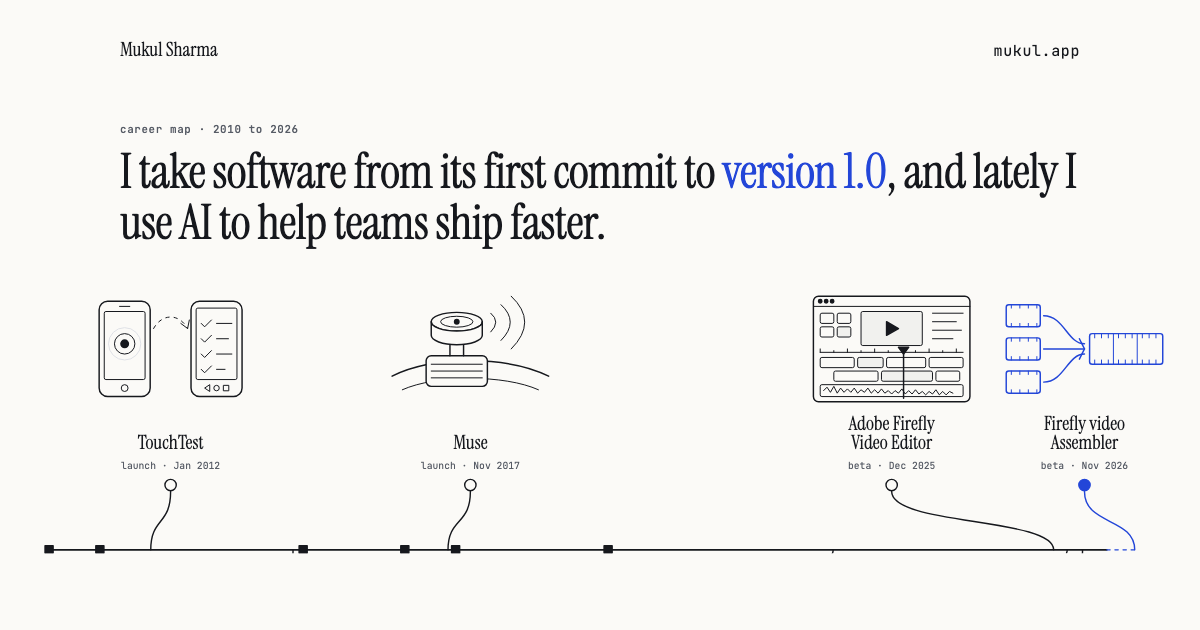
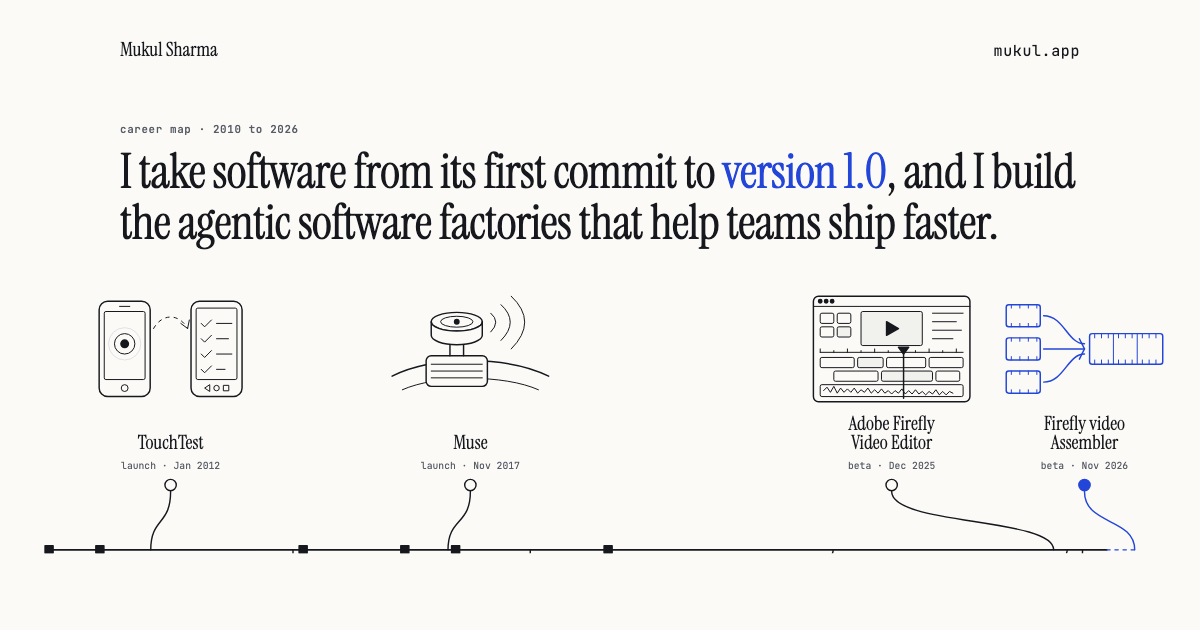
Add AppStation to the career map and describe the agentic software factory

Changed region(s): [[0.0925, 0.3016, 0.8325, 0.3921], [0.8017, 0.2413, 0.8942, 0.3016]]

diff --git a/site/index.html b/site/index.html
@@ -4,9 +4,9 @@
 <meta charset="utf-8">
 <meta name="viewport" content="width=device-width, initial-scale=1">
 <title>Mukul Sharma</title>
-<meta name="description" content="Mukul Sharma takes software from its first commit to version 1.0, and uses AI to help teams ship faster. Senior Staff Engineer at Adobe.">
+<meta name="description" content="Mukul Sharma takes software from its first commit to version 1.0 and builds the agentic software factories that help teams ship faster. Senior Staff Engineer at Adobe.">
 <meta property="og:title" content="Mukul Sharma">
-<meta property="og:description" content="I take software from its first commit to version 1.0, and lately I use AI to help teams ship faster.">
+<meta property="og:description" content="I take software from its first commit to version 1.0, and I build the agentic software factories that help teams ship faster.">
 <meta property="og:url" content="https://mukul.app/">
 <meta property="og:image" content="https://mukul.app/og.png">
 <meta property="og:image:width" content="1200">
@@ -53,7 +53,7 @@ a:hover{color:var(--mark)}
 .masthead nav a:hover{color:var(--mark)}
 
 .opening{padding-top:4.5rem;padding-bottom:1.5rem}
-.opening h1{font:400 clamp(2.5rem,5.6vw,4.6rem)/1.02 var(--display);letter-spacing:-.015em;margin:.8rem 0 1rem;max-width:19ch}
+.opening h1{font:400 clamp(2.5rem,5.6vw,4.6rem)/1.02 var(--display);letter-spacing:-.015em;margin:.8rem 0 1rem;max-width:27ch;text-wrap:balance}
 .opening h1 em{color:var(--mark);font-style:normal}
 
 /* inked svg language, after the README diagram kit */
@@ -227,7 +227,8 @@ svg.ink .note{font-size:15px}
 .maparea:has(#h-8x8>summary:hover) #g-8x8 .st,.maparea:has(#h-8x8[open]) #g-8x8 .st{fill:var(--mark)}.maparea:has(#h-8x8>summary:hover) #g-8x8 path,.maparea:has(#h-8x8[open]) #g-8x8 path{stroke:var(--mark)}
 .maparea:has(#h-speak>summary:hover) #g-speak .st,.maparea:has(#h-speak[open]) #g-speak .st{fill:var(--mark)}.maparea:has(#h-speak>summary:hover) #g-speak path,.maparea:has(#h-speak[open]) #g-speak path{stroke:var(--mark)}
 .maparea:has(#h-mobileiron>summary:hover) #g-mobileiron .st,.maparea:has(#h-mobileiron[open]) #g-mobileiron .st{fill:var(--mark)}.maparea:has(#h-mobileiron>summary:hover) #g-mobileiron path,.maparea:has(#h-mobileiron[open]) #g-mobileiron path{stroke:var(--mark)}
-.maparea:has(#h-adobe>summary:hover) #g-adobe .st,.maparea:has(#h-adobe[open]) #g-adobe .st{fill:var(--mark)}.maparea:has(#h-adobe>summary:hover) #g-adobe path,.maparea:has(#h-adobe[open]) #g-adobe path{stroke:var(--mark)}</style>
+.maparea:has(#h-adobe>summary:hover) #g-adobe .st,.maparea:has(#h-adobe[open]) #g-adobe .st{fill:var(--mark)}.maparea:has(#h-adobe>summary:hover) #g-adobe path,.maparea:has(#h-adobe[open]) #g-adobe path{stroke:var(--mark)}.maparea:has(#h-appstation>summary:hover) #g-appstation .dot,.maparea:has(#h-appstation[open]) #g-appstation .dot{fill:var(--mark);stroke:var(--mark)}.maparea:has(#h-appstation>summary:hover) #g-appstation .nm,.maparea:has(#h-appstation[open]) #g-appstation .nm{fill:var(--mark)}
+</style>
 </head>
 <body>
 <div class="wrap">
@@ -244,7 +245,7 @@ svg.ink .note{font-size:15px}
 <main>
   <section class="wrap opening" aria-labelledby="map-title">
     <p class="k">career map · 2010 to 2026</p>
-    <h1 id="map-title">I take software from its first commit to <em>version&nbsp;1.0</em>, and lately I use AI to help teams ship faster.</h1>
+    <h1 id="map-title">I take software from its first commit to <em>version&nbsp;1.0</em>, and I build the agentic software factories that help teams ship faster.</h1>
     <p class="cap">Senior Staff Engineer at Adobe, in San Jose, California. Each node on the line is something I shipped; select one for its story.</p>
   </section>
 
@@ -275,7 +276,16 @@ svg.ink .note{font-size:15px}
 <path class="f" d="M-23 -16 V-8 A15 5.5 0 0 0 7 -8 V-16 A15 5.5 0 0 1 -23 -16 Z"/>
 <ellipse class="thin" cx="-8" cy="-16" rx="9.5" ry="3.2"/><circle class="inkf" cx="-8" cy="-16" r="1.3"/>
 <path class="thin" d="M12 -21 q6 5 0 11"/><path class="thin" d="M18 -26 q11 10 0 21"/><path class="thin" d="M24 -31 q16 15 0 31"/>
-</g><text class="nm" x="560.0" y="256" text-anchor="middle">Muse</text><text class="dt" x="560" y="280" text-anchor="middle">launch · Nov 2017</text><circle class="dot" cx="560" cy="300" r="7"/></g><g id="g-express" class="prod"><path class="branch" d="M1007.8 380 C1007.8 420 820 410 820 452"/><circle class="dot" cx="820" cy="460" r="7"/><text class="nm" x="820.0" y="492" text-anchor="middle">Adobe Express</text><text class="nm" x="820.0" y="516" text-anchor="middle">video</text><text class="dt" x="820" y="538" text-anchor="middle">launch · 2023</text><g class="glyph" transform="translate(820.0 620) scale(2.1)">
+</g><text class="nm" x="560.0" y="256" text-anchor="middle">Muse</text><text class="dt" x="560" y="280" text-anchor="middle">launch · Nov 2017</text><circle class="dot" cx="560" cy="300" r="7"/></g><g id="g-appstation" class="prod"><path class="branch" d="M634.0 380 C634.0 420 600 410 600 452"/><circle class="dot" cx="600" cy="460" r="7"/><text class="nm" x="600.0" y="492" text-anchor="middle">AppStation</text><text class="dt" x="600" y="514" text-anchor="middle">v1 · Jun 2019</text><g class="glyph" transform="translate(600.0 620) scale(2.1)">
+<rect class="f" x="-40" y="-28" width="30" height="56" rx="5"/><rect class="thin" x="-37" y="-22" width="24" height="40" rx="1"/>
+<path class="thin" d="M-28 -25 H-22"/><circle class="thin" cx="-25" cy="23" r="1.8"/>
+<rect class="thin" x="-34" y="-18" width="6" height="6" rx="1.5"/><rect class="thin" x="-26" y="-18" width="6" height="6" rx="1.5"/>
+<rect class="thin" x="-34" y="-9" width="6" height="6" rx="1.5"/><rect class="w thin" x="-26" y="-9" width="6" height="6" rx="1.5"/>
+<rect class="thin" x="-34" y="0" width="6" height="6" rx="1.5"/><rect class="thin" x="-26" y="0" width="6" height="6" rx="1.5"/>
+<path class="thin" d="M-34 11 H-20"/>
+<path class="thin d" d="M-4 -8 C4 -16 12 -16 18 -10"/><path class="thin" d="M13 -13 l5 3 l-1 -6"/>
+<path class="f" d="M24 -24 L40 -18 V-2 C40 10 32 18 24 22 C16 18 8 10 8 -2 V-18 Z"/>
+<rect class="w" x="16" y="-6" width="16" height="12" rx="2"/><path class="thin" d="M20 -6 V-9 H28 V-6 M16 0 H32"/></g></g><g id="g-express" class="prod"><path class="branch" d="M1007.8 380 C1007.8 420 820 410 820 452"/><circle class="dot" cx="820" cy="460" r="7"/><text class="nm" x="820.0" y="492" text-anchor="middle">Adobe Express</text><text class="nm" x="820.0" y="516" text-anchor="middle">video</text><text class="dt" x="820" y="538" text-anchor="middle">launch · 2023</text><g class="glyph" transform="translate(820.0 620) scale(2.1)">
 <rect class="thin" x="-44" y="-31" width="5" height="5" rx="1"/><rect class="thin" x="-36.5" y="-31" width="5" height="5" rx="1"/>
 <rect class="thin" x="-29" y="-31" width="5" height="5" rx="1"/><rect class="thin" x="-21.5" y="-31" width="5" height="5" rx="1"/>
 <rect class="thin" x="-14" y="-31" width="5" height="5" rx="1"/><rect class="thin" x="-6.5" y="-31" width="5" height="5" rx="1"/>
@@ -328,7 +338,7 @@ svg.ink .note{font-size:15px}
 <path class="m" d="M-24 -19.5 C-12 -19.5 -10 -3 0 -3 M-24 0 H0 M-24 19.5 C-12 19.5 -10 3 0 3"/><path class="m" d="M-3 -6 l3 6 l-3 6"/>
 <rect class="f m" x="3" y="-9" width="43" height="18" rx="1.5"/><path class="m thin" d="M17 -9 V9 M31 -9 V9"/>
 <path class="m thin" d="M6 -9 v2.5 M10 -9 v2.5 M14 -9 v2.5 M20 -9 v2.5 M24 -9 v2.5 M28 -9 v2.5 M34 -9 v2.5 M38 -9 v2.5 M42 -9 v2.5"/>
-<path class="m thin" d="M6 9 v-2.5 M10 9 v-2.5 M14 9 v-2.5 M20 9 v-2.5 M24 9 v-2.5 M28 9 v-2.5 M34 9 v-2.5 M38 9 v-2.5 M42 9 v-2.5"/></g><text class="nm" x="1318.0" y="232" text-anchor="middle">Firefly video</text><text class="nm" x="1318.0" y="256" text-anchor="middle">Assembler</text><text class="dt mt" x="1318" y="280" text-anchor="middle">beta · Nov 2026</text><circle class="dot mf" cx="1318" cy="300" r="7"/></g><text class="note" x="1195" y="402" text-anchor="end">open source</text><path class="thin" d="M40 730 H1380.0"/><path class="thin" d="M40.0 730 V736"/><text class="t" x="40.0" y="752" text-anchor="middle">2010</text><path class="thin" d="M102.7 730 V736"/><text class="t" x="102.7" y="752" text-anchor="middle">2011</text><path class="thin" d="M165.5 730 V736"/><text class="t" x="165.5" y="752" text-anchor="middle">2012</text><path class="thin" d="M228.2 730 V736"/><text class="t" x="228.2" y="752" text-anchor="middle">2013</text><path class="thin" d="M290.9 730 V736"/><text class="t" x="290.9" y="752" text-anchor="middle">2014</text><path class="thin" d="M353.6 730 V736"/><text class="t" x="353.6" y="752" text-anchor="middle">2015</text><path class="thin" d="M416.4 730 V736"/><text class="t" x="416.4" y="752" text-anchor="middle">2016</text><path class="thin" d="M479.1 730 V736"/><text class="t" x="479.1" y="752" text-anchor="middle">2017</text><path class="thin" d="M541.8 730 V736"/><text class="t" x="541.8" y="752" text-anchor="middle">2018</text><path class="thin" d="M604.5 730 V736"/><text class="t" x="604.5" y="752" text-anchor="middle">2019</text><path class="thin" d="M667.3 730 V736"/><text class="t" x="667.3" y="752" text-anchor="middle">2020</text><path class="thin" d="M730.0 730 V736"/><text class="t" x="730.0" y="752" text-anchor="middle">2021</text><path class="thin" d="M841.1 730 V736"/><text class="t" x="841.1" y="752" text-anchor="middle">2022</text><path class="thin" d="M952.2 730 V736"/><text class="t" x="952.2" y="752" text-anchor="middle">2023</text><path class="thin" d="M1063.3 730 V736"/><text class="t" x="1063.3" y="752" text-anchor="middle">2024</text><path class="thin" d="M1174.4 730 V736"/><text class="t" x="1174.4" y="752" text-anchor="middle">2025</text><path class="thin" d="M1285.6 730 V736"/><text class="t" x="1285.6" y="752" text-anchor="middle">2026</text><rect x="723.0" y="727" width="14" height="6" style="fill:var(--paper);stroke:none"/><path class="thin" d="M721.0 736 L727.0 724 M733.0 736 L739.0 724"/><text class="note" x="730.0" y="716" text-anchor="middle">scale changes</text><g id="g-sumtotal" class="emp"><path class="thin" d="M43.0 768 V776 H99.7 V768"/><text class="st" x="71.4" y="796" text-anchor="middle">SumTotal</text><text class="st" x="71.4" y="811" text-anchor="middle">Systems</text></g><g id="g-soasta" class="emp"><path class="thin" d="M105.7 768 V776 H350.6 V768"/><text class="st" x="228.2" y="796" text-anchor="middle">SOASTA</text></g><g id="g-8x8" class="emp"><path class="thin" d="M356.6 768 V776 H476.1 V768"/><text class="st" x="416.4" y="796" text-anchor="middle">8x8</text></g><g id="g-speak" class="emp"><path class="thin" d="M482.1 768 V776 H538.8 V768"/><text class="st" x="510.5" y="796" text-anchor="middle">Speak</text><text class="st" x="510.5" y="811" text-anchor="middle">Music</text></g><g id="g-mobileiron" class="emp"><path class="thin" d="M544.8 768 V776 H727.0 V768"/><text class="st" x="635.9" y="796" text-anchor="middle">MobileIron</text></g><g id="g-adobe" class="emp"><path class="thin" d="M733.0 768 V776 H1377.0 V768"/><text class="st" x="1055.0" y="796" text-anchor="middle">Adobe</text></g></svg><details class="pin hp dn al-l" id="h-touchtest" name="map" style="left:6.528%;top:1.538%;width:13.333%;height:32.051%"><summary><span class="sr">TouchTest, launch Jan 2012</span></summary><div class="pop"><h3>TouchTest</h3><p class="pm">SOASTA · launch Jan 2012</p><p class="pc">On the launch team for TouchTest, test automation for iOS and Android apps.</p><a class="cite" href="https://www.informationweek.com/it-leadership/cloud-platform-stress-tests-mobile-apps">InformationWeek on the launch</a></div></details><details class="pin hp upw al-c" id="h-mpulse" name="map" style="left:16.250%;top:51.026%;width:13.333%;height:31.026%"><summary><span class="sr">mPulse Mobile, v1 2015</span></summary><div class="pop"><h3>mPulse Mobile</h3><p class="pm">SOASTA · v1 2015</p><p class="pc">As its architect, designed the mobile SDK, its API, and the analytics for network requests inside customers&#x27; apps.</p></div></details><details class="pin hp dn al-c" id="h-muse" name="map" style="left:32.222%;top:1.538%;width:13.333%;height:32.051%"><summary><span class="sr">Muse, launch Nov 2017</span></summary><div class="pop"><h3>Muse</h3><p class="pm">Speak Music · launch Nov 2017</p><p class="pc">Led design, development, and launch of an Alexa device for the car, and owned its iOS app. 1,000+ Indiegogo backers, $70,000+.</p><a class="cite" href="https://techcrunch.com/2017/11/14/muse-is-a-simple-dedicated-amazon-alexa-add-on-for-the-car/">TechCrunch on the launch</a></div></details><details class="pin hp upw al-c" id="h-express" name="map" style="left:50.278%;top:51.026%;width:13.333%;height:31.026%"><summary><span class="sr">Adobe Express video, launch 2023</span></summary><div class="pop"><h3>Adobe Express video</h3><p class="pm">Adobe · launch 2023</p><p class="pc">Led the teams behind eight Video Quick Actions and the first video timeline in Express for iPhone and iPad.</p></div></details><details class="pin hp dn al-c" id="h-fve" name="map" style="left:68.333%;top:1.538%;width:13.333%;height:32.051%"><summary><span class="sr">Adobe Firefly Video Editor, beta Dec 2025</span></summary><div class="pop"><h3>Adobe Firefly Video Editor</h3><p class="pm">Adobe · beta Dec 2025</p><p class="pc">Built the timeline editing core from the first commit. The public beta reached 100K monthly users.</p><a class="cite" href="https://nofilmschool.com/adobe-firefly-video-editor-beta">No Film School on the public beta</a></div></details><details class="pin hp upw al-c" id="h-forge" name="map" style="left:66.250%;top:51.026%;width:13.333%;height:31.026%"><summary><span class="sr">Forge, v1 Feb 2026</span></summary><div class="pop"><h3>Forge</h3><p class="pm">open source · v1 Feb 2026</p><p class="pc">Adversarial planning for coding agents, then a pipeline that checks evidence at every stage.</p><a class="cite" href="https://github.com/elitecoder/forge">elitecoder/forge on GitHub</a></div></details><details class="pin hp upw al-r" id="h-architect" name="map" style="left:82.917%;top:51.026%;width:13.333%;height:31.026%"><summary><span class="sr">Architect, v1 Apr 2026</span></summary><div class="pop"><h3>Architect</h3><p class="pm">Adobe, internal · v1 Apr 2026</p><p class="pc">Turns a problem statement into a reviewed pull request with passing checks. 16+ engineers, about 2,000 runs.</p></div></details><details class="pin hp dn al-r" id="h-assembler" name="map" style="left:84.861%;top:1.538%;width:13.333%;height:32.051%"><summary><span class="sr">Firefly video Assembler, beta Nov 2026</span></summary><div class="pop"><h3>Firefly video Assembler</h3><p class="pm">Adobe · beta Nov 2026</p><p class="pc">Leading delivery of Adobe&#x27;s new video assembly product. Public beta ships this month.</p></div></details><details class="pin hp upw al-l" id="h-sumtotal" name="map" style="left:2.917%;top:91.026%;width:4.078%;height:7.692%"><summary><span class="sr">SumTotal Systems, 2010–2011</span></summary><div class="pop"><h3>SumTotal Systems</h3><p class="pm">2010–2011</p><p class="pc">Software Engineer</p></div></details><details class="pin hp upw al-l" id="h-soasta" name="map" style="left:7.273%;top:91.026%;width:17.146%;height:7.692%"><summary><span class="sr">SOASTA, 2011–2015</span></summary><div class="pop"><h3>SOASTA</h3><p class="pm">2011–2015</p><p class="pc">Sr. Software Engineer, then Tech Lead</p></div></details><details class="pin hp upw al-c" id="h-8x8" name="map" style="left:24.697%;top:91.026%;width:8.434%;height:7.692%"><summary><span class="sr">8x8, 2015–2017</span></summary><div class="pop"><h3>8x8</h3><p class="pm">2015–2017</p><p class="pc">Senior Mobile Engineer</p></div></details><details class="pin hp upw al-c" id="h-speak" name="map" style="left:33.409%;top:91.026%;width:4.078%;height:7.692%"><summary><span class="sr">Speak Music, 2017–2018</span></summary><div class="pop"><h3>Speak Music</h3><p class="pm">2017–2018</p><p class="pc">iOS Platform Lead.</p></div></details><details class="pin hp upw al-c" id="h-mobileiron" name="map" style="left:37.765%;top:91.026%;width:12.790%;height:7.692%"><summary><span class="sr">MobileIron, 2018–2021</span></summary><div class="pop"><h3>MobileIron</h3><p class="pm">2018–2021</p><p class="pc">Staff Software Engineer, iOS. Acquired by Ivanti.</p></div></details><details class="pin hp upw al-c" id="h-adobe" name="map" style="left:50.833%;top:91.026%;width:44.861%;height:7.692%"><summary><span class="sr">Adobe, 2021–now</span></summary><div class="pop"><h3>Adobe</h3><p class="pm">2021–now</p><p class="pc">Sr. Computer Scientist 2 (Sr. Staff Engineer)</p></div></details></div><ol class="vlist" aria-label="Career map, oldest first"><li class="v-start" aria-hidden="true"></li><li class="v-st"><details class="pin" name="vmap"><summary><span class="vn">SumTotal Systems</span> <span class="vy">2010–2011</span></summary><div class="vpop"><p class="pc">Software Engineer</p></div></details></li><li class="v-st"><details class="pin" name="vmap"><summary><span class="vn">SOASTA</span> <span class="vy">2011–2015</span></summary><div class="vpop"><p class="pc">Sr. Software Engineer, then Tech Lead</p></div></details></li><li class="v-pr"><details class="pin" name="vmap"><summary><svg class="ink vbr" viewBox="0 0 44 40" aria-hidden="true"><path class="branch" d="M12 0 C12 22 38 12 38 33"/></svg><span class="vdot" aria-hidden="true"></span><span class="vt"><span class="vname">TouchTest</span><span class="vmeta">launch · Jan 2012</span></span><svg class="ink vg" viewBox="-47 -33 94 66" aria-hidden="true"><g class="glyph" transform="translate(0.0 0) scale(1)">
+<path class="m thin" d="M6 9 v-2.5 M10 9 v-2.5 M14 9 v-2.5 M20 9 v-2.5 M24 9 v-2.5 M28 9 v-2.5 M34 9 v-2.5 M38 9 v-2.5 M42 9 v-2.5"/></g><text class="nm" x="1318.0" y="232" text-anchor="middle">Firefly video</text><text class="nm" x="1318.0" y="256" text-anchor="middle">Assembler</text><text class="dt mt" x="1318" y="280" text-anchor="middle">beta · Nov 2026</text><circle class="dot mf" cx="1318" cy="300" r="7"/></g><text class="note" x="1195" y="402" text-anchor="end">open source</text><path class="thin" d="M40 730 H1380.0"/><path class="thin" d="M40.0 730 V736"/><text class="t" x="40.0" y="752" text-anchor="middle">2010</text><path class="thin" d="M102.7 730 V736"/><text class="t" x="102.7" y="752" text-anchor="middle">2011</text><path class="thin" d="M165.5 730 V736"/><text class="t" x="165.5" y="752" text-anchor="middle">2012</text><path class="thin" d="M228.2 730 V736"/><text class="t" x="228.2" y="752" text-anchor="middle">2013</text><path class="thin" d="M290.9 730 V736"/><text class="t" x="290.9" y="752" text-anchor="middle">2014</text><path class="thin" d="M353.6 730 V736"/><text class="t" x="353.6" y="752" text-anchor="middle">2015</text><path class="thin" d="M416.4 730 V736"/><text class="t" x="416.4" y="752" text-anchor="middle">2016</text><path class="thin" d="M479.1 730 V736"/><text class="t" x="479.1" y="752" text-anchor="middle">2017</text><path class="thin" d="M541.8 730 V736"/><text class="t" x="541.8" y="752" text-anchor="middle">2018</text><path class="thin" d="M604.5 730 V736"/><text class="t" x="604.5" y="752" text-anchor="middle">2019</text><path class="thin" d="M667.3 730 V736"/><text class="t" x="667.3" y="752" text-anchor="middle">2020</text><path class="thin" d="M730.0 730 V736"/><text class="t" x="730.0" y="752" text-anchor="middle">2021</text><path class="thin" d="M841.1 730 V736"/><text class="t" x="841.1" y="752" text-anchor="middle">2022</text><path class="thin" d="M952.2 730 V736"/><text class="t" x="952.2" y="752" text-anchor="middle">2023</text><path class="thin" d="M1063.3 730 V736"/><text class="t" x="1063.3" y="752" text-anchor="middle">2024</text><path class="thin" d="M1174.4 730 V736"/><text class="t" x="1174.4" y="752" text-anchor="middle">2025</text><path class="thin" d="M1285.6 730 V736"/><text class="t" x="1285.6" y="752" text-anchor="middle">2026</text><rect x="723.0" y="727" width="14" height="6" style="fill:var(--paper);stroke:none"/><path class="thin" d="M721.0 736 L727.0 724 M733.0 736 L739.0 724"/><text class="note" x="730.0" y="716" text-anchor="middle">scale changes</text><g id="g-sumtotal" class="emp"><path class="thin" d="M43.0 768 V776 H99.7 V768"/><text class="st" x="71.4" y="796" text-anchor="middle">SumTotal</text><text class="st" x="71.4" y="811" text-anchor="middle">Systems</text></g><g id="g-soasta" class="emp"><path class="thin" d="M105.7 768 V776 H350.6 V768"/><text class="st" x="228.2" y="796" text-anchor="middle">SOASTA</text></g><g id="g-8x8" class="emp"><path class="thin" d="M356.6 768 V776 H476.1 V768"/><text class="st" x="416.4" y="796" text-anchor="middle">8x8</text></g><g id="g-speak" class="emp"><path class="thin" d="M482.1 768 V776 H538.8 V768"/><text class="st" x="510.5" y="796" text-anchor="middle">Speak</text><text class="st" x="510.5" y="811" text-anchor="middle">Music</text></g><g id="g-mobileiron" class="emp"><path class="thin" d="M544.8 768 V776 H727.0 V768"/><text class="st" x="635.9" y="796" text-anchor="middle">MobileIron</text></g><g id="g-adobe" class="emp"><path class="thin" d="M733.0 768 V776 H1377.0 V768"/><text class="st" x="1055.0" y="796" text-anchor="middle">Adobe</text></g></svg><details class="pin hp dn al-l" id="h-touchtest" name="map" style="left:6.528%;top:1.538%;width:13.333%;height:32.051%"><summary><span class="sr">TouchTest, launch Jan 2012</span></summary><div class="pop"><h3>TouchTest</h3><p class="pm">SOASTA · launch Jan 2012</p><p class="pc">On the launch team for TouchTest, test automation for iOS and Android apps.</p><a class="cite" href="https://www.informationweek.com/it-leadership/cloud-platform-stress-tests-mobile-apps">InformationWeek on the launch</a></div></details><details class="pin hp upw al-c" id="h-mpulse" name="map" style="left:16.250%;top:51.026%;width:13.333%;height:31.026%"><summary><span class="sr">mPulse Mobile, v1 2015</span></summary><div class="pop"><h3>mPulse Mobile</h3><p class="pm">SOASTA · v1 2015</p><p class="pc">As its architect, designed the mobile SDK, its API, and the analytics for network requests inside customers&#x27; apps.</p></div></details><details class="pin hp dn al-c" id="h-muse" name="map" style="left:32.222%;top:1.538%;width:13.333%;height:32.051%"><summary><span class="sr">Muse, launch Nov 2017</span></summary><div class="pop"><h3>Muse</h3><p class="pm">Speak Music · launch Nov 2017</p><p class="pc">Led design, development, and launch of an Alexa device for the car, and owned its iOS app. 1,000+ Indiegogo backers, $70,000+.</p><a class="cite" href="https://techcrunch.com/2017/11/14/muse-is-a-simple-dedicated-amazon-alexa-add-on-for-the-car/">TechCrunch on the launch</a></div></details><details class="pin hp upw al-c" id="h-appstation" name="map" style="left:35.000%;top:51.026%;width:13.333%;height:31.026%"><summary><span class="sr">AppStation, v1 Jun 2019</span></summary><div class="pop"><h3>AppStation</h3><p class="pm">MobileIron · v1 Jun 2019</p><p class="pc">Built and shipped MobileIron&#x27;s iOS app for managing work apps without managing the whole device.</p><a class="cite" href="https://help.ivanti.com/mi/help/en_us/APSTN/1.0.0/rni/Content/AppStationReleaseNotes/AppStationReleaseNotes.htm">AppStation 1.0.0 release notes</a></div></details><details class="pin hp upw al-c" id="h-express" name="map" style="left:50.278%;top:51.026%;width:13.333%;height:31.026%"><summary><span class="sr">Adobe Express video, launch 2023</span></summary><div class="pop"><h3>Adobe Express video</h3><p class="pm">Adobe · launch 2023</p><p class="pc">Led the teams behind eight Video Quick Actions and the first video timeline in Express for iPhone and iPad.</p></div></details><details class="pin hp dn al-c" id="h-fve" name="map" style="left:68.333%;top:1.538%;width:13.333%;height:32.051%"><summary><span class="sr">Adobe Firefly Video Editor, beta Dec 2025</span></summary><div class="pop"><h3>Adobe Firefly Video Editor</h3><p class="pm">Adobe · beta Dec 2025</p><p class="pc">Built the timeline editing core from the first commit. The public beta reached 100K monthly users.</p><a class="cite" href="https://nofilmschool.com/adobe-firefly-video-editor-beta">No Film School on the public beta</a></div></details><details class="pin hp upw al-c" id="h-forge" name="map" style="left:66.250%;top:51.026%;width:13.333%;height:31.026%"><summary><span class="sr">Forge, v1 Feb 2026</span></summary><div class="pop"><h3>Forge</h3><p class="pm">open source · v1 Feb 2026</p><p class="pc">Adversarial planning for coding agents, then a pipeline that checks evidence at every stage.</p><a class="cite" href="https://github.com/elitecoder/forge">elitecoder/forge on GitHub</a></div></details><details class="pin hp upw al-r" id="h-architect" name="map" style="left:82.917%;top:51.026%;width:13.333%;height:31.026%"><summary><span class="sr">Architect, v1 Apr 2026</span></summary><div class="pop"><h3>Architect</h3><p class="pm">Adobe, internal · v1 Apr 2026</p><p class="pc">Turns a problem statement into a reviewed pull request with passing checks. 16+ engineers, about 2,000 runs.</p></div></details><details class="pin hp dn al-r" id="h-assembler" name="map" style="left:84.861%;top:1.538%;width:13.333%;height:32.051%"><summary><span class="sr">Firefly video Assembler, beta Nov 2026</span></summary><div class="pop"><h3>Firefly video Assembler</h3><p class="pm">Adobe · beta Nov 2026</p><p class="pc">Leading delivery of Adobe&#x27;s new video assembly product. Public beta ships this month.</p></div></details><details class="pin hp upw al-l" id="h-sumtotal" name="map" style="left:2.917%;top:91.026%;width:4.078%;height:7.692%"><summary><span class="sr">SumTotal Systems, 2010–2011</span></summary><div class="pop"><h3>SumTotal Systems</h3><p class="pm">2010–2011</p><p class="pc">Software Engineer</p></div></details><details class="pin hp upw al-l" id="h-soasta" name="map" style="left:7.273%;top:91.026%;width:17.146%;height:7.692%"><summary><span class="sr">SOASTA, 2011–2015</span></summary><div class="pop"><h3>SOASTA</h3><p class="pm">2011–2015</p><p class="pc">Sr. Software Engineer, then Tech Lead</p></div></details><details class="pin hp upw al-c" id="h-8x8" name="map" style="left:24.697%;top:91.026%;width:8.434%;height:7.692%"><summary><span class="sr">8x8, 2015–2017</span></summary><div class="pop"><h3>8x8</h3><p class="pm">2015–2017</p><p class="pc">Senior Mobile Engineer</p></div></details><details class="pin hp upw al-c" id="h-speak" name="map" style="left:33.409%;top:91.026%;width:4.078%;height:7.692%"><summary><span class="sr">Speak Music, 2017–2018</span></summary><div class="pop"><h3>Speak Music</h3><p class="pm">2017–2018</p><p class="pc">iOS Platform Lead.</p></div></details><details class="pin hp upw al-c" id="h-mobileiron" name="map" style="left:37.765%;top:91.026%;width:12.790%;height:7.692%"><summary><span class="sr">MobileIron, 2018–2021</span></summary><div class="pop"><h3>MobileIron</h3><p class="pm">2018–2021</p><p class="pc">Staff Software Engineer, iOS. Acquired by Ivanti.</p></div></details><details class="pin hp upw al-c" id="h-adobe" name="map" style="left:50.833%;top:91.026%;width:44.861%;height:7.692%"><summary><span class="sr">Adobe, 2021–now</span></summary><div class="pop"><h3>Adobe</h3><p class="pm">2021–now</p><p class="pc">Sr. Computer Scientist 2 (Sr. Staff Engineer)</p></div></details></div><ol class="vlist" aria-label="Career map, oldest first"><li class="v-start" aria-hidden="true"></li><li class="v-st"><details class="pin" name="vmap"><summary><span class="vn">SumTotal Systems</span> <span class="vy">2010–2011</span></summary><div class="vpop"><p class="pc">Software Engineer</p></div></details></li><li class="v-st"><details class="pin" name="vmap"><summary><span class="vn">SOASTA</span> <span class="vy">2011–2015</span></summary><div class="vpop"><p class="pc">Sr. Software Engineer, then Tech Lead</p></div></details></li><li class="v-pr"><details class="pin" name="vmap"><summary><svg class="ink vbr" viewBox="0 0 44 40" aria-hidden="true"><path class="branch" d="M12 0 C12 22 38 12 38 33"/></svg><span class="vdot" aria-hidden="true"></span><span class="vt"><span class="vname">TouchTest</span><span class="vmeta">launch · Jan 2012</span></span><svg class="ink vg" viewBox="-47 -33 94 66" aria-hidden="true"><g class="glyph" transform="translate(0.0 0) scale(1)">
 <rect class="f" x="-42" y="-28" width="30" height="56" rx="5"/><rect class="thin" x="-39" y="-22" width="24" height="40" rx="1"/>
 <path class="thin" d="M-30 -25 H-24"/><circle class="thin" cx="-27" cy="23" r="2"/>
 <circle class="inkf" cx="-27" cy="-3" r="2.2"/><circle class="thin" cx="-27" cy="-3" r="6"/><circle class="thin faint" cx="-27" cy="-3" r="9.5"/>
@@ -355,7 +365,16 @@ svg.ink .note{font-size:15px}
 <path class="f" d="M-23 -16 V-8 A15 5.5 0 0 0 7 -8 V-16 A15 5.5 0 0 1 -23 -16 Z"/>
 <ellipse class="thin" cx="-8" cy="-16" rx="9.5" ry="3.2"/><circle class="inkf" cx="-8" cy="-16" r="1.3"/>
 <path class="thin" d="M12 -21 q6 5 0 11"/><path class="thin" d="M18 -26 q11 10 0 21"/><path class="thin" d="M24 -31 q16 15 0 31"/>
-</g></svg></summary><div class="vpop"><p class="pm">Speak Music · launch Nov 2017</p><p class="pc">Led design, development, and launch of an Alexa device for the car, and owned its iOS app. 1,000+ Indiegogo backers, $70,000+.</p><a class="cite" href="https://techcrunch.com/2017/11/14/muse-is-a-simple-dedicated-amazon-alexa-add-on-for-the-car/">TechCrunch on the launch</a></div></details></li><li class="v-st"><details class="pin" name="vmap"><summary><span class="vn">MobileIron</span> <span class="vy">2018–2021</span></summary><div class="vpop"><p class="pc">Staff Software Engineer, iOS. Acquired by Ivanti.</p></div></details></li><li class="v-st"><details class="pin" name="vmap"><summary><span class="vn">Adobe</span> <span class="vy">2021–now</span></summary><div class="vpop"><p class="pc">Sr. Computer Scientist 2 (Sr. Staff Engineer)</p></div></details></li><li class="v-pr"><details class="pin" name="vmap"><summary><svg class="ink vbr" viewBox="0 0 44 40" aria-hidden="true"><path class="branch" d="M12 0 C12 22 38 12 38 33"/></svg><span class="vdot" aria-hidden="true"></span><span class="vt"><span class="vname">Adobe Express video</span><span class="vmeta">launch · 2023</span></span><svg class="ink vg" viewBox="-47 -33 94 66" aria-hidden="true"><g class="glyph" transform="translate(0.0 0) scale(1)">
+</g></svg></summary><div class="vpop"><p class="pm">Speak Music · launch Nov 2017</p><p class="pc">Led design, development, and launch of an Alexa device for the car, and owned its iOS app. 1,000+ Indiegogo backers, $70,000+.</p><a class="cite" href="https://techcrunch.com/2017/11/14/muse-is-a-simple-dedicated-amazon-alexa-add-on-for-the-car/">TechCrunch on the launch</a></div></details></li><li class="v-st"><details class="pin" name="vmap"><summary><span class="vn">MobileIron</span> <span class="vy">2018–2021</span></summary><div class="vpop"><p class="pc">Staff Software Engineer, iOS. Acquired by Ivanti.</p></div></details></li><li class="v-pr"><details class="pin" name="vmap"><summary><svg class="ink vbr" viewBox="0 0 44 40" aria-hidden="true"><path class="branch" d="M12 0 C12 22 38 12 38 33"/></svg><span class="vdot" aria-hidden="true"></span><span class="vt"><span class="vname">AppStation</span><span class="vmeta">v1 · Jun 2019</span></span><svg class="ink vg" viewBox="-47 -33 94 66" aria-hidden="true"><g class="glyph" transform="translate(0.0 0) scale(1)">
+<rect class="f" x="-40" y="-28" width="30" height="56" rx="5"/><rect class="thin" x="-37" y="-22" width="24" height="40" rx="1"/>
+<path class="thin" d="M-28 -25 H-22"/><circle class="thin" cx="-25" cy="23" r="1.8"/>
+<rect class="thin" x="-34" y="-18" width="6" height="6" rx="1.5"/><rect class="thin" x="-26" y="-18" width="6" height="6" rx="1.5"/>
+<rect class="thin" x="-34" y="-9" width="6" height="6" rx="1.5"/><rect class="w thin" x="-26" y="-9" width="6" height="6" rx="1.5"/>
+<rect class="thin" x="-34" y="0" width="6" height="6" rx="1.5"/><rect class="thin" x="-26" y="0" width="6" height="6" rx="1.5"/>
+<path class="thin" d="M-34 11 H-20"/>
+<path class="thin d" d="M-4 -8 C4 -16 12 -16 18 -10"/><path class="thin" d="M13 -13 l5 3 l-1 -6"/>
+<path class="f" d="M24 -24 L40 -18 V-2 C40 10 32 18 24 22 C16 18 8 10 8 -2 V-18 Z"/>
+<rect class="w" x="16" y="-6" width="16" height="12" rx="2"/><path class="thin" d="M20 -6 V-9 H28 V-6 M16 0 H32"/></g></svg></summary><div class="vpop"><p class="pm">MobileIron · v1 Jun 2019</p><p class="pc">Built and shipped MobileIron&#x27;s iOS app for managing work apps without managing the whole device.</p><a class="cite" href="https://help.ivanti.com/mi/help/en_us/APSTN/1.0.0/rni/Content/AppStationReleaseNotes/AppStationReleaseNotes.htm">AppStation 1.0.0 release notes</a></div></details></li><li class="v-st"><details class="pin" name="vmap"><summary><span class="vn">Adobe</span> <span class="vy">2021–now</span></summary><div class="vpop"><p class="pc">Sr. Computer Scientist 2 (Sr. Staff Engineer)</p></div></details></li><li class="v-pr"><details class="pin" name="vmap"><summary><svg class="ink vbr" viewBox="0 0 44 40" aria-hidden="true"><path class="branch" d="M12 0 C12 22 38 12 38 33"/></svg><span class="vdot" aria-hidden="true"></span><span class="vt"><span class="vname">Adobe Express video</span><span class="vmeta">launch · 2023</span></span><svg class="ink vg" viewBox="-47 -33 94 66" aria-hidden="true"><g class="glyph" transform="translate(0.0 0) scale(1)">
 <rect class="thin" x="-44" y="-31" width="5" height="5" rx="1"/><rect class="thin" x="-36.5" y="-31" width="5" height="5" rx="1"/>
 <rect class="thin" x="-29" y="-31" width="5" height="5" rx="1"/><rect class="thin" x="-21.5" y="-31" width="5" height="5" rx="1"/>
 <rect class="thin" x="-14" y="-31" width="5" height="5" rx="1"/><rect class="thin" x="-6.5" y="-31" width="5" height="5" rx="1"/>
@@ -415,15 +434,15 @@ svg.ink .note{font-size:15px}
     <hr class="rule" style="margin-top:0">
     <div class="ai">
       <div>
-        <p class="k" style="margin-top:2.5rem">on building with ai</p>
+        <p class="k" style="margin-top:2.5rem">the agentic software factory</p>
         <h2 class="h" id="h-ai">The model isn't the trick. The <em>scaffolding</em> is.</h2>
         <p class="cap">I treat coding agents like new teammates: the same reviews, the same tests, and the same bar for shipping.</p>
         <ul class="stats" style="margin-top:2.25rem">
-          <li><b>400+</b><span>pull requests in six weeks this spring, with production code written by my agent pipeline</span></li>
+          <li><b>400+</b><span>pull requests in six weeks this spring, with production code written by my agentic harness</span></li>
           <li><b>787</b><span>pull requests merged into Adobe Firefly's platform since April</span></li>
           <li><b>22</b><span>software and quality engineers on my team, where I'm the senior engineer</span></li>
         </ul>
-        <p class="after">I wrote the rules that walk agents through Adobe's video and Firefly code the way a senior engineer would, taught engineers to use them, and helped teams like Lightroom and Firefly Boards start building this way.</p>
+        <p class="after">Around it I built the skills, rules, review gates, and evals that walk agents through Adobe's video and Firefly code the way a senior engineer would. I taught engineers to use them and helped teams like Lightroom and Firefly Boards start building this way.</p>
       </div>
       <figure style="margin:2.5rem 0 0"><svg class="ink scaffold" viewBox="0 0 330 512" role="img" aria-label="How an agent change ships: a problem statement is planned adversarially, an agent writes the code and the tests, the test must fail before the fix and pass after it, then review, a person approves, and the pull request merges."><path d="M34 26 V96"/><path d="M34 96 C34 112 16 112 16 128 V150 C16 166 34 166 34 182"/><path d="M34 96 C34 112 52 112 52 128 V150 C52 166 34 166 34 182"/><path d="M34 182 V218"/><path d="M34 262 V300"/><path class="m" d="M34 300 V352"/><path d="M34 352 V478"/><circle class="inkf" cx="34" cy="26" r="5"/><text x="64" y="31">problem statement</text><circle class="f" cx="16" cy="139" r="5"/><circle class="f" cx="52" cy="139" r="5"/><text x="64" y="134">plan, adversarially</text><text class="t" x="64" y="154">competing plans, critics</text><rect class="w" x="12" y="218" width="44" height="44" rx="4"/><path class="thin" d="M22 232 l6 6 l-6 6 M35 246 H46"/><text x="64" y="236">agent writes code</text><text class="t" x="64" y="256">and the tests</text><path class="m" d="M14 300 H54 M14 352 H54"/><text class="mt" x="64" y="306">test fails before the fix</text><text class="mt" x="64" y="352">and passes after it</text><circle class="f" cx="34" cy="398" r="7"/><text x="64" y="403">review, same bar as people</text><circle class="f" cx="34" cy="430" r="4.5"/><path class="f" d="M25 448 q9 -14 18 0 z"/><text x="64" y="443">a person approves</text><text class="t" x="64" y="463">every change</text><circle class="inkf" cx="34" cy="486" r="8"/><text x="64" y="491">merged pull request</text></svg></figure>
     </div>
